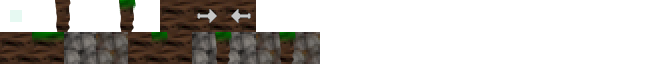
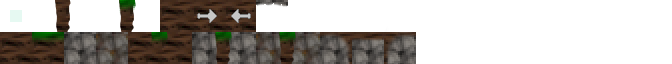
Added stones.Moved crafting to own class. added 2 new maps. added a rock block

Changed region(s): [[0.4688, 0.5, 0.625, 1.0], [0.375, 0.0, 0.4375, 0.0938]]

diff --git a/Game/src/game/item/crafting/Crafting.java b/Game/src/game/item/crafting/Crafting.java
@@ -1,0 +1,72 @@
+package game.item.crafting;
+
+import game.entity.living.player.Player;
+import game.item.ItemStack;
+import game.item.Items;
+
+public class Crafting {
+
+		public static ItemStack[] getRecipe(int i){
+			ItemStack[] is = new ItemStack[10];
+
+			if(i == 0){
+				is[0] = new ItemStack(Items.log, 1);
+			}else if(i == 1){
+				is[0] = new ItemStack(Items.stick, 8);
+				is[1] = new ItemStack(Items.log, 1);
+			}
+
+			return is;
+		}
+
+		public static void craftSticks(Player player){
+			ItemStack input = new ItemStack(Items.log, 1);
+			ItemStack result = new ItemStack(Items.stick, 1);
+
+			int slot = player.getInventory().getSlotForStack(input);
+
+			if(slot >= 0){
+				ItemStack is = player.getStackInSlot(slot);
+				if(is.stackSize >= input.stackSize){
+					if(player.setStackInNextAvailableSlot(result)){
+						System.out.println("yup");
+						is.stackSize -= input.stackSize;
+						if(is.stackSize <= 0)
+							player.setStackInSlot(slot, null);
+					}
+				}
+			}
+		}
+
+		public static void craftCraftTable(Player player){
+			ItemStack[] input = new ItemStack[]{new ItemStack(Items.log, 1), new ItemStack(Items.stick, 8)};
+			ItemStack result = new ItemStack(Items.craftTable, 1);
+			boolean flag[] = new boolean[]{false,false};
+
+			if(player.hasStack(input[0])){
+				if(player.hasStack(input[1])){
+					for(int it = 0; it < input.length; it++){
+						for(int i = 0; i < player.getInventory().getItems().length; i++){
+							if(player.getStackInSlot(i) != null){
+								if(player.getStackInSlot(i).getItem().equals(input[it].getItem())){
+									if(player.getStackInSlot(i).stackSize >= input[it].stackSize){
+										flag[it] = true;
+									}
+								}
+							}
+						}
+					}
+				}
+			}
+
+			if(flag[0] && flag[1]){
+				player.setStackInNextAvailableSlot(result);
+				for(int a = 0; a < input.length; a++){
+					int i = player.getInventory().getSlotForStack(input[a]);
+					player.getItems()[i].stackSize -= input[a].stackSize;
+					if(player.getItems()[i].stackSize == 0)
+						player.getItems()[i] = null;
+				}
+			}
+		}
+	}

diff --git a/Game/src/game/entity/block/BlockRock.java b/Game/src/game/entity/block/BlockRock.java
@@ -1,0 +1,39 @@
+package game.entity.block;
+
+import game.World;
+import game.content.Images;
+import game.item.ItemStack;
+import game.item.Items;
+
+import java.awt.image.BufferedImage;
+import java.util.Random;
+
+import base.tilemap.TileMap;
+
+public class BlockRock extends BlockBreakable{
+
+	public BlockRock(TileMap tm, World world) {
+		super(tm, world, Blocks.ROCK);
+	}
+	
+	@Override
+	public int getHealth() {
+		return 15;
+	}
+	
+	@Override
+	public ItemStack getDrop() {
+		return new ItemStack(Items.rock, new Random().nextInt(4)+1);
+	}
+	
+	@Override
+	public BufferedImage getEntityTexture() {
+		return Images.loadImage("/blocks/rock.png");
+	}
+	
+	@Override
+	public boolean hasAnimation() {
+		return false;
+	}
+
+}

diff --git a/Game/src/game/Loading.java b/Game/src/game/Loading.java
@@ -22,20 +22,10 @@ public class Loading {
 
 	public static String newMap(){
 
-		int i = new Random().nextInt(3);
-
-		switch (i) {
-		case 0:
-			return "/maps/cave_rand.map";
-
-		case 1 :
-			return "/maps/cave_rand_2.map";
-
-		case 2 : 
-			return "/maps/cave_rand_3.map";
-		}
-
-		return "/maps/cave_rand.map";
+		int i = new Random().nextInt(5)+1;
+		String s = "/maps/cave_rand_" + i + ".map";
+		System.out.println(s);
+		return s;
 	}
 
 	public static void gotoNextLevel(GameStateManager gsm){
@@ -59,6 +49,8 @@ public class Loading {
 			maps++;
 			generateRandomTree(nw);
 			generateRandomOre(nw, Blocks.IRON, 3);
+			generateRandomOre(nw, Blocks.ROCK, 10);
+
 		}else{
 			nw.readFromSave(Save.getWorldData(index));
 		}

diff --git a/Game/src/game/entity/block/Blocks.java b/Game/src/game/entity/block/Blocks.java
@@ -9,6 +9,7 @@ public class Blocks {
 	public static final String LOG = "log";
 	public static final String CRAFTINGTABLE = "craftingtable";
 	public static final String IRON = "ironOre";
+	public static final String ROCK = "rock";
 
 	public static MapObject loadMapObjectFromString(String uin, TileMap tm, World w){
 		switch (uin) {
@@ -18,7 +19,9 @@ public class Blocks {
 			return new BlockCraftingTable(tm, w);
 		case IRON:
 			return new BlockIron(tm, w);
-
+		case ROCK:
+			return new BlockRock(tm, w);
+			
 		default:
 			break;
 		}

diff --git a/Game/src/game/item/Items.java b/Game/src/game/item/Items.java
@@ -14,7 +14,8 @@ public class Items {
 	
 	public static ItemStick stick = new ItemStick();
 	public static ItemIron iron = new ItemIron();
-	
+	public static ItemStone rock= new ItemStone();
+
 	public static ItemWood log = new ItemWood();
 	public static ItemCraftingTable craftTable = new ItemCraftingTable();
 	
@@ -23,6 +24,7 @@ public class Items {
 		registerItem(craftTable);
 		registerItem(log);
 		registerItem(iron);
+		registerItem(rock);
 	}
 
 	public static void registerItem(Item item){

diff --git a/Game/src/base/tilemap/TileMap.java b/Game/src/base/tilemap/TileMap.java
@@ -121,9 +121,9 @@ public class TileMap {
 
 	/**x and y are the rows of the map. returns either 0 or 1, for solid or ghost blocks*/
 	public int getType(int y, int x) {
-		final int rc = map[y][x];
-		final int r = rc / numTilesAcross;
-		final int c = rc % numTilesAcross;
+		int rc = map[y][x];
+		int r = rc / numTilesAcross;
+		int c = rc % numTilesAcross;
 		return tiles[r][c].getType();
 	}
 

diff --git a/Game/src/game/item/ItemStone.java b/Game/src/game/item/ItemStone.java
@@ -1,0 +1,18 @@
+package game.item;
+
+import game.content.Images;
+
+import java.awt.image.BufferedImage;
+
+public class ItemStone extends Item{
+
+	public ItemStone() {
+		super("stone");
+	}
+	
+	@Override
+	public BufferedImage getTexture(){
+		return Images.loadImage("/items/stone.png");
+	}
+
+}

diff --git a/Game/src/game/World.java b/Game/src/game/World.java
@@ -33,7 +33,7 @@ public class World extends GameState{
 
 	protected ArrayList<Background> backGrounds;
 
-	private String worldPath = "/maps/cave_rand.map";
+	private String worldPath = "/maps/cave_rand_1.map";
 
 	public ArrayList<MapObject> listWithMapObjects ;
 
